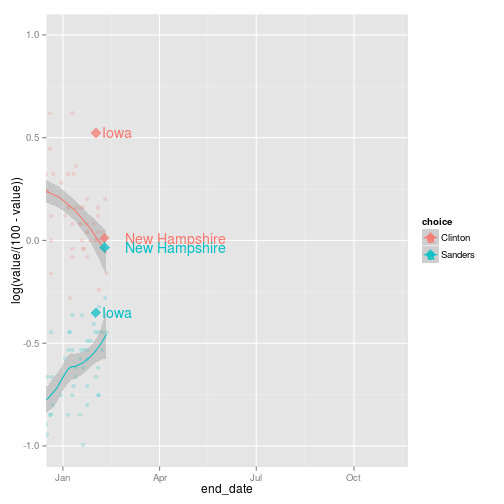
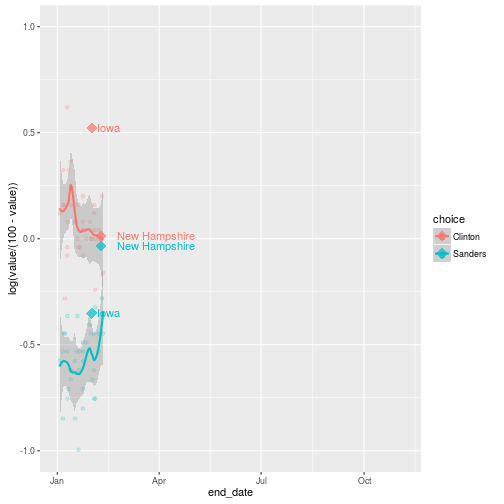
Updated HuffPost data
fixed list formatting

diff --git a/_posts/2016-02-12-playing-with-huffpolster.md b/_posts/2016-02-12-playing-with-huffpolster.md
@@ -11,12 +11,11 @@ Today, I learned that the Huffington Post allows one to download all of its data
 Even better, someone wrote a library to do it for you! (https://github.com/rOpenGov/pollstR)
 
 This allows the gathering of a *lot* of data really easily, although it can take a while.
-The following gathers all data for the 2016 primary for each party, including all national and state polls.
+The following gathers all data for the 2016 primary for the democrats (the republicans are too much of a mess), including all national and state polls.
 Whoosh, data!
 
 {% highlight r %}
 d_polls <- pollstr_polls(topic = "2016-president-dem-primary", state = "US", max_pages=500)
-r_polls <- pollstr_polls(topic = "2016-president-gop-primary", state = "US", max_pages=500)
 length(d_polls$polls[,"id"])
 {% endhighlight %}
 
@@ -26,24 +25,12 @@ length(d_polls$polls[,"id"])
 ## [1] 257
 {% endhighlight %}
 
-
-
-{% highlight r %}
-length(r_polls$polls[,"id"])
-{% endhighlight %}
-
-
-
-{% highlight text %}
-## [1] 287
-{% endhighlight %}
-
 So now, we can make cool plots, that look just like the ones the Huffington Post makes, except for the fact that I can plot them however I want :)!
-  - using *weighted* moving averages
-  - a poll is not (usually) conducted over a single day, but a range
-  - plotting empty space for the future
-  - plotting the popular candidates
-  - I don't like percentages much, I significantly prefer log odds-ratio (more on that later, yes I know I already promised that)
+  * using *weighted* moving averages
+  * a poll is not (usually) conducted over a single day, but a range
+  * plotting empty space for the future
+  * plotting the popular candidates
+  * I don't like percentages much, I significantly prefer log odds-ratio (more on that later, yes I know I already promised that)
 
 The democratic race is a lot easier to play with, at least in terms of number of candidates.
 In addition, I'm going to be bringing up the Clinton-Sanders expectations into play in a second, and this analysis is currently impossible on the Republican side.
@@ -57,6 +44,18 @@ p <- ggplot(d_polldata, aes(x = end_date, y = log(value/(100-value)), color = ch
 p <- p + geom_point(alpha = 0.2)
 p <- p + geom_smooth(span = 0.5, method="loess")
 p
+{% endhighlight %}
+
+
+
+{% highlight text %}
+## Warning: Removed 132 rows containing non-finite values (stat_smooth).
+{% endhighlight %}
+
+
+
+{% highlight text %}
+## Warning: Removed 132 rows containing missing values (geom_point).
 {% endhighlight %}
 
 ![center](/../figs/2016-02-12-playing-with-huffpolster/unnamed-chunk-2-1.png)
